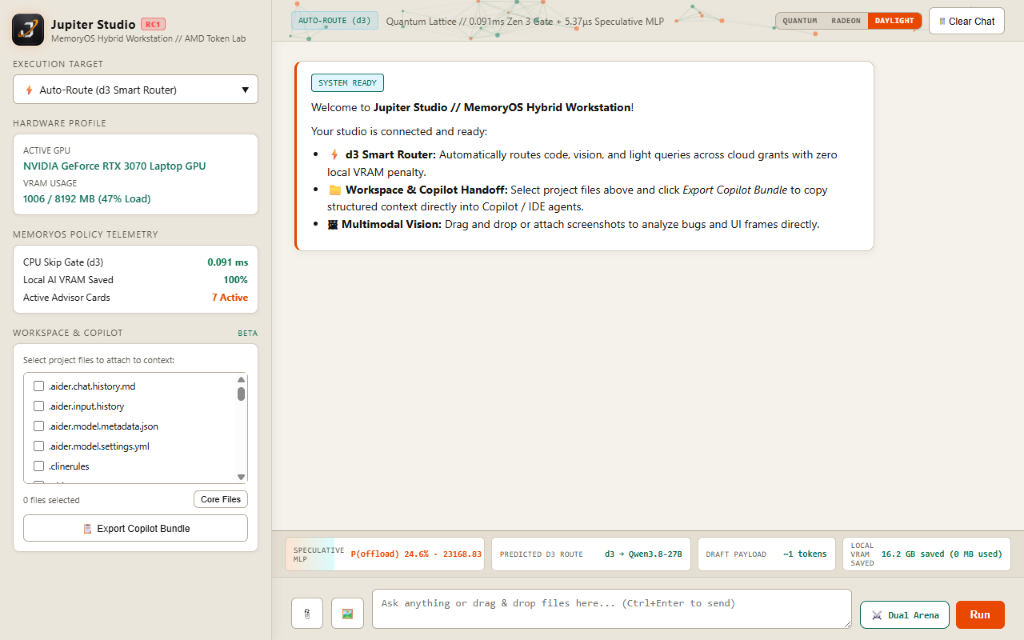
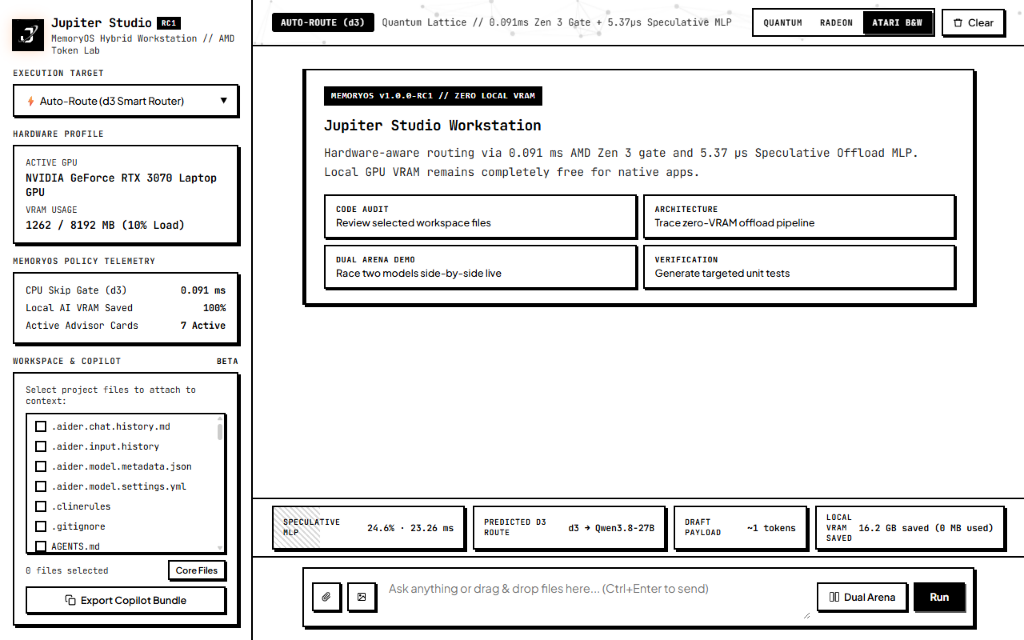
feat(studio): add Atari ST / Commodore B&W monochrome light theme and update README hero positioning

diff --git a/apps/jupiter_studio_ui.py b/apps/jupiter_studio_ui.py
@@ -1261,36 +1261,78 @@ STUDIO_HTML = r"""<!DOCTYPE html>
     border-right-color: rgba(237, 28, 36, 0.30) !important;
   }
 
-  /* DAYLIGHT FROSTED CRYSTAL THEME */
+  /* ATARI ST / COMMODORE HI-RES MONOCHROME BLACK & WHITE THEME */
+  html[data-studio-theme="daylight"] {
+    --bg: #ffffff;
+    --sidebar-bg: #ffffff;
+    --panel: #ffffff;
+    --card-bg: #ffffff;
+    --border: #000000;
+    --border-highlight: #000000;
+    --text: #000000;
+    --muted: #222222;
+    --orange: #000000;
+    --cyan: #000000;
+    --green: #000000;
+    --red: #000000;
+    --code-bg: #000000;
+  }
   html[data-studio-theme="daylight"] body {
+    font-family: var(--font-mono) !important;
     background:
-      radial-gradient(ellipse 55% 45% at 80% 10%, rgba(11, 110, 88, 0.10), transparent 65%),
-      radial-gradient(ellipse 48% 42% at 18% 92%, rgba(232, 72, 0, 0.09), transparent 65%),
-      linear-gradient(rgba(22, 22, 20, 0.04) 1px, transparent 1px),
-      linear-gradient(90deg, rgba(22, 22, 20, 0.04) 1px, transparent 1px),
-      #f2efe9 !important;
-    background-size: 100% 100%, 100% 100%, 32px 32px, 32px 32px, 100% 100% !important;
+      radial-gradient(#000000 0.55px, transparent 0.55px),
+      radial-gradient(#000000 0.55px, #ffffff 0.55px) !important;
+    background-size: 4px 4px !important;
+    background-position: 0 0, 2px 2px !important;
+    color: #000000 !important;
+  }
+  html[data-studio-theme="daylight"] * {
+    border-radius: 0px !important;
+    backdrop-filter: none !important;
+    -webkit-backdrop-filter: none !important;
   }
   html[data-studio-theme="daylight"] .sidebar {
-    background: rgba(242, 239, 233, 0.78) !important;
-    border-right: 1px solid rgba(22, 22, 20, 0.14) !important;
+    background: #ffffff !important;
+    border-right: 2px solid #000000 !important;
+    box-shadow: none !important;
   }
   html[data-studio-theme="daylight"] .card,
   html[data-studio-theme="daylight"] .msg.assistant,
   html[data-studio-theme="daylight"] .radar-cell,
   html[data-studio-theme="daylight"] .input-bar {
-    background: rgba(255, 255, 255, 0.78) !important;
-    border: 1px solid rgba(22, 22, 20, 0.14) !important;
-    box-shadow: inset 0 1px 0 rgba(255, 255, 255, 0.90), 0 8px 24px rgba(22, 22, 20, 0.07) !important;
+    background: #ffffff !important;
+    border: 2px solid #000000 !important;
+    box-shadow: 3px 3px 0px #000000 !important;
+    color: #000000 !important;
   }
   html[data-studio-theme="daylight"] .msg.assistant {
-    border-left: 2px solid #e84800 !important;
+    border-left: 5px solid #000000 !important;
+  }
+  html[data-studio-theme="daylight"] .msg.user {
+    background: #000000 !important;
+    color: #ffffff !important;
+    border: 2px solid #000000 !important;
+    box-shadow: 3px 3px 0px #555555 !important;
   }
   html[data-studio-theme="daylight"] .chat-header,
   html[data-studio-theme="daylight"] .input-bar-wrapper,
   html[data-studio-theme="daylight"] .spec-radar {
-    background: rgba(235, 230, 220, 0.76) !important;
-    border-color: rgba(22, 22, 20, 0.14) !important;
+    background: #ffffff !important;
+    border-color: #000000 !important;
+    border-width: 2px !important;
+    box-shadow: none !important;
+  }
+  html[data-studio-theme="daylight"] #quantum-canvas {
+    filter: grayscale(100%) contrast(300%);
+    opacity: 0.25;
+  }
+  html[data-studio-theme="daylight"] .chat-header .badge,
+  html[data-studio-theme="daylight"] .meta-tag,
+  html[data-studio-theme="daylight"] .rc-pill {
+    background: #000000 !important;
+    color: #ffffff !important;
+    border: 1px solid #000000 !important;
+    box-shadow: none !important;
   }
   html[data-studio-theme="daylight"] .md-body,
   html[data-studio-theme="daylight"] .md-body h1,
@@ -1298,30 +1340,66 @@ STUDIO_HTML = r"""<!DOCTYPE html>
   html[data-studio-theme="daylight"] .md-body h3,
   html[data-studio-theme="daylight"] .select-box,
   html[data-studio-theme="daylight"] .starter-chip,
-  html[data-studio-theme="daylight"] .theme-pill-btn {
-    color: #161614 !important;
+  html[data-studio-theme="daylight"] .starter-chip span,
+  html[data-studio-theme="daylight"] .theme-pill-btn,
+  html[data-studio-theme="daylight"] .hw-val,
+  html[data-studio-theme="daylight"] .radar-k,
+  html[data-studio-theme="daylight"] .radar-v,
+  html[data-studio-theme="daylight"] #prompt-input {
+    color: #000000 !important;
   }
-  html[data-studio-theme="daylight"] .select-box {
-    background: rgba(255, 255, 255, 0.85) !important;
-    border-color: rgba(22, 22, 20, 0.22) !important;
+  html[data-studio-theme="daylight"] .select-box,
+  html[data-studio-theme="daylight"] .starter-chip,
+  html[data-studio-theme="daylight"] .workspace-file-list,
+  html[data-studio-theme="daylight"] .btn-secondary,
+  html[data-studio-theme="daylight"] .btn-icon,
+  html[data-studio-theme="daylight"] .btn-arena {
+    background: #ffffff !important;
+    color: #000000 !important;
+    border: 2px solid #000000 !important;
+    box-shadow: 2px 2px 0px #000000 !important;
   }
-  html[data-studio-theme="daylight"] .starter-chip {
-    background: rgba(255, 255, 255, 0.65) !important;
-    border-color: rgba(22, 22, 20, 0.16) !important;
+  html[data-studio-theme="daylight"] .starter-chip:hover,
+  html[data-studio-theme="daylight"] .btn-secondary:hover,
+  html[data-studio-theme="daylight"] .btn-icon:hover,
+  html[data-studio-theme="daylight"] .btn-arena:hover,
+  html[data-studio-theme="daylight"] .btn-arena.active,
+  html[data-studio-theme="daylight"] .theme-pill-btn.active,
+  html[data-studio-theme="daylight"] .btn {
+    background: #000000 !important;
+    color: #ffffff !important;
+    border: 2px solid #000000 !important;
+    box-shadow: 2px 2px 0px #555555 !important;
   }
-  html[data-studio-theme="daylight"] .workspace-file-list {
-    background: rgba(255, 255, 255, 0.75) !important;
-    border-color: rgba(22, 22, 20, 0.16) !important;
+  html[data-studio-theme="daylight"] .starter-chip:hover span {
+    color: #ffffff !important;
+  }
+  html[data-studio-theme="daylight"] .theme-pill-group {
+    background: #ffffff !important;
+    border: 2px solid #000000 !important;
   }
   html[data-studio-theme="daylight"] input[type="checkbox"],
   html[data-studio-theme="daylight"] .ws-file-cb {
-    border-color: rgba(22, 22, 20, 0.35) !important;
+    border: 2px solid #000000 !important;
     background: #ffffff !important;
   }
-  html[data-studio-theme="daylight"] .btn-arena {
-    background: rgba(11, 110, 88, 0.10) !important;
-    border-color: #0b6e58 !important;
-    color: #0b6e58 !important;
+  html[data-studio-theme="daylight"] input[type="checkbox"]:checked,
+  html[data-studio-theme="daylight"] .ws-file-cb:checked {
+    background: #000000 !important;
+    border-color: #000000 !important;
+    box-shadow: none !important;
+  }
+  html[data-studio-theme="daylight"] #rad-mlp-bar {
+    background: repeating-linear-gradient(45deg, #000000, #000000 2px, #ffffff 2px, #ffffff 5px) !important;
+    opacity: 0.14;
+  }
+  html[data-studio-theme="daylight"] .code-block-container {
+    background: #000000 !important;
+    color: #ffffff !important;
+    border: 2px solid #000000 !important;
+  }
+  html[data-studio-theme="daylight"] .logo-badge img {
+    filter: grayscale(100%) contrast(220%);
   }
 
 </style>
@@ -1445,7 +1523,7 @@ STUDIO_HTML = r"""<!DOCTYPE html>
         <div class="theme-pill-group" title="Switch Studio Surface Theme">
           <button class="theme-pill-btn active" data-t="quantum" onclick="setStudioTheme('quantum')">QUANTUM</button>
           <button class="theme-pill-btn" data-t="radeon" onclick="setStudioTheme('radeon')">RADEON</button>
-          <button class="theme-pill-btn" data-t="daylight" onclick="setStudioTheme('daylight')">DAYLIGHT</button>
+          <button class="theme-pill-btn" data-t="daylight" onclick="setStudioTheme('daylight')">ATARI B&amp;W</button>
         </div>
         <button class="btn-secondary" onclick="clearChat()"><svg width="13" height="13" viewBox="0 0 24 24" fill="none" stroke="currentColor" stroke-width="2" stroke-linecap="round" stroke-linejoin="round"><path d="M3 6h18"/><path d="M8 6V4h8v2"/><path d="M19 6l-1 14H6L5 6"/></svg>Clear</button>
       </div>

diff --git a/README.md b/README.md
@@ -14,13 +14,22 @@ MemoryOS is a hardware-aware local AI workstation and orchestration layer built 
 
 ---
 
-## Jupiter Studio — Live Screenshot Gallery
+## Jupiter Studio RC1
 
-![Jupiter Studio — Quantum Smoked-Crystal Glassmorphism](docs/screenshots/jupiter_studio_quantum.png)
+![Jupiter Studio RC1 — Live Qwen3.8-27B Streaming & Speculative Neural Radar](docs/screenshots/jupiter_studio_live_stream.png)
 
-| Live Streaming (`Qwen3.8-27B`) + Pre-Send Speculative Radar | Daylight Ceramic Theme |
+> **Jupiter Studio RC1** — A hardware-aware AI workstation that automatically routes requests between models while monitoring performance, memory usage, and execution cost.
+
+* ✓ **Multi-model routing** — automatic `d3` routing across AMD Token Lab, Hugging Face Router, NVIDIA NIM, DigitalOcean MI300X, local DGX Spark (`vLLM`/`Flare`), and Ollama
+* ✓ **Local and cloud AI** — keep local GPU VRAM at **0 MB** while running 27B–72B models
+* ✓ **Workspace-aware context** — stage repo files and attach multi-file uploads or screenshots directly
+* ✓ **Hardware telemetry** — live GPU detection, VRAM monitoring, thermal throttling guard, and `0–100` Workstation Health Score
+* ✓ **Persistent memory** — SQLite telemetry ledger + atomic NVMe checkpoint recovery
+* ✓ **One-click Copilot export** — copy structured workspace bundles straight into IDE agents
+
+| Sharp Smoked-Crystal Quantum Theme | Atari / Commodore B&amp;W Monochrome Mode |
 | :---: | :---: |
-| ![Live Streaming & Speculative Neural Radar](docs/screenshots/jupiter_studio_live_stream.png) | ![Jupiter Studio Daylight Ceramic Theme](docs/screenshots/jupiter_studio_daylight.png) |
+| ![Jupiter Studio Quantum Smoked-Crystal](docs/screenshots/jupiter_studio_quantum.png) | ![Jupiter Studio Atari B&W Monochrome](docs/screenshots/jupiter_studio_daylight.png) |
 
 ---
 
